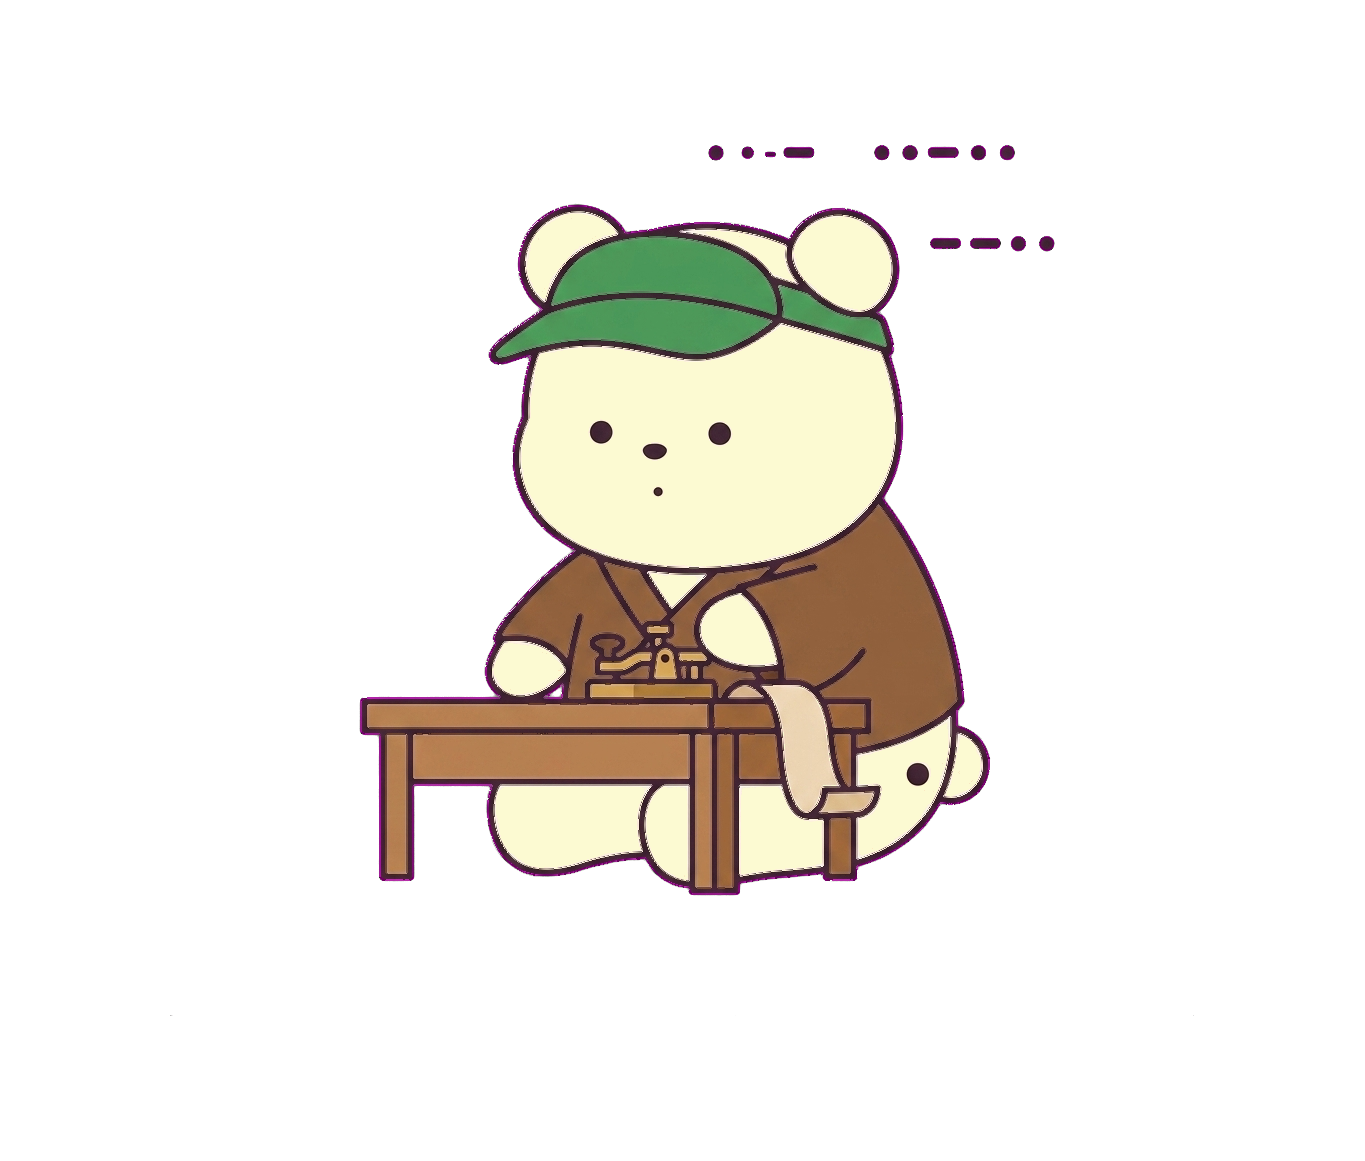
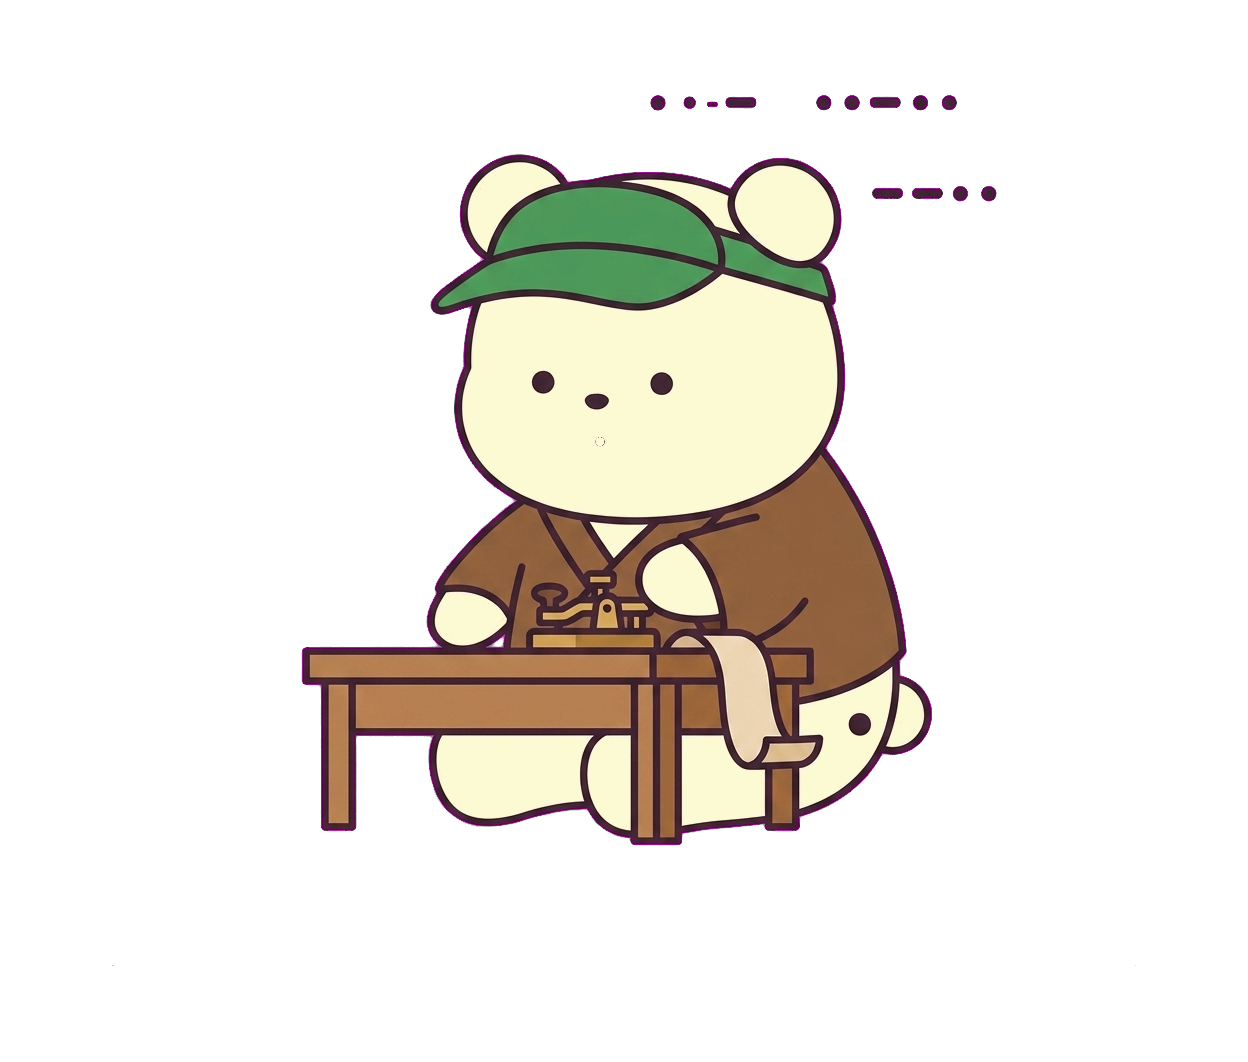
feat(vanished-jobs-archive): 041-050イラスト追加(044/046は生成版に刷新)・040拡大&口除去・なかまローテーション
- 041電報配達少年/042葉巻工場朗読者/043銀板写真師/044植字工/045ライノタイプ工/046電話交換手/047エレベーター操作手/048ピンセッター/049灯台守/050シラミ飼育係
- 040電信士: 口の点を除去しサイズ拡大(0.75→0.82)
- おなじ時代に消えたなかま: 章内先頭3件固定→カードごとにローテーションで全カード別の顔ぶれに

Changed region(s): [[0.2188, 0.0932, 0.8125, 0.8079], [0.4688, 0.3418, 0.5625, 0.404]]

diff --git a/vanished-jobs-archive/src/app/jobs/[no]/page.tsx b/vanished-jobs-archive/src/app/jobs/[no]/page.tsx
@@ -49,9 +49,16 @@ export default async function JobPage({
   const chain = job.lineageId
     ? lineageChains.find((c) => c.id === job.lineageId)
     : undefined;
-  const related = jobs
-    .filter((j) => j.no !== no && j.category === job.category)
-    .slice(0, 3);
+  // おなじ時代のなかま: 章内でカードごとに顔ぶれをローテーションさせる
+  const sameCat = jobs.filter((j) => j.category === job.category);
+  const idxInCat = sameCat.findIndex((j) => j.no === no);
+  const others = sameCat.filter((j) => j.no !== no);
+  const related = others.length
+    ? Array.from(
+        { length: Math.min(3, others.length) },
+        (_, i) => others[(idxInCat + i) % others.length]
+      )
+    : [];
 
   return (
     <div className="mx-auto max-w-6xl px-4 py-8 md:px-8">
